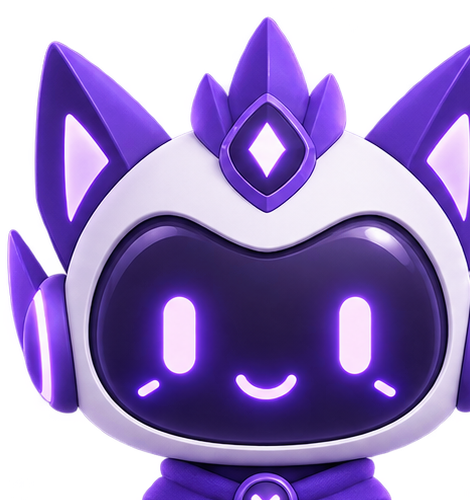
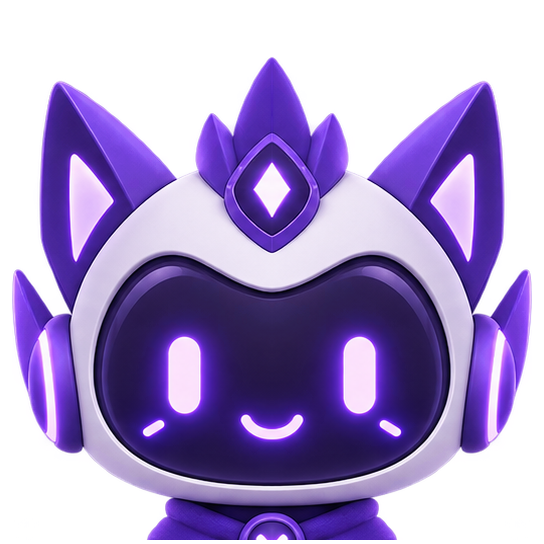
Replace cropped mascot head with complete symmetric version

diff --git a/src/lib/mascot.ts b/src/lib/mascot.ts
@@ -12,7 +12,7 @@ type MascotAsset = { src: string; width: number; height: number };
 type MascotAssetSet = Record<MascotCrop, MascotAsset>;
 
 const neutralAssets: MascotAssetSet = {
-  head: { src: "/brand/talevo-mascot-head.png", width: 470, height: 500 },
+  head: { src: "/brand/talevo-mascot-head.png", width: 544, height: 544 },
   upper: { src: "/assets/mascot/mascot-upper-neutral.png", width: 470, height: 588 },
   full: { src: "/assets/mascot/mascot-full-turnaround-v2.png", width: 1086, height: 1448 },
 };
